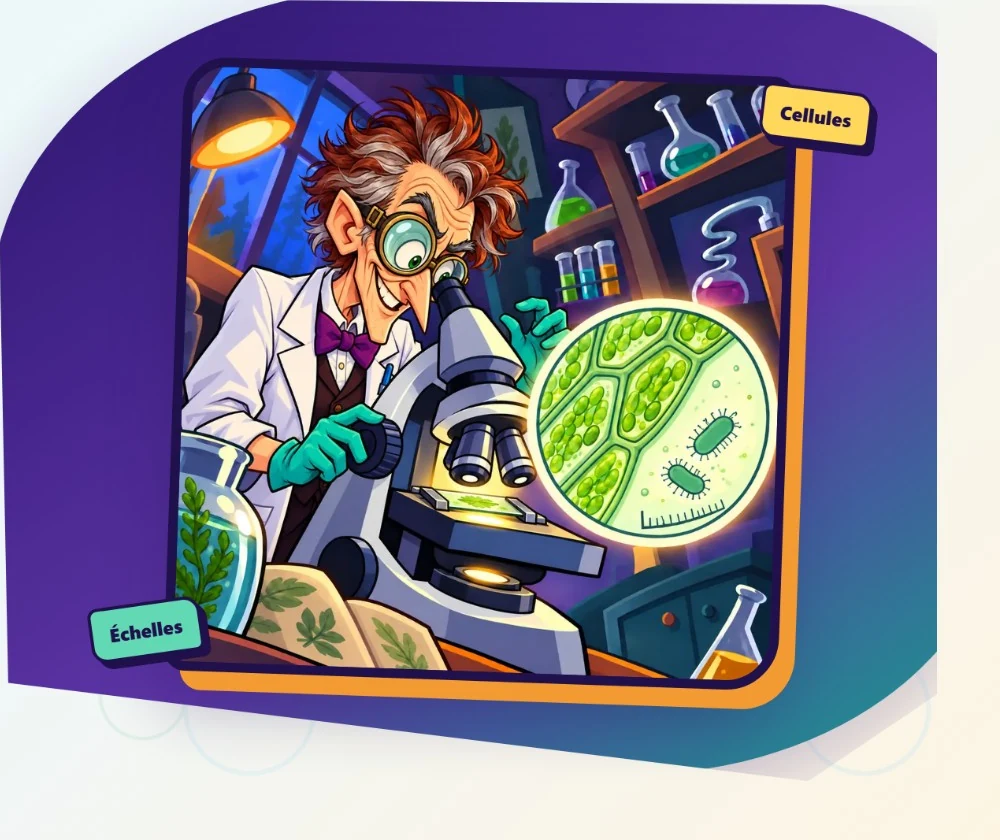
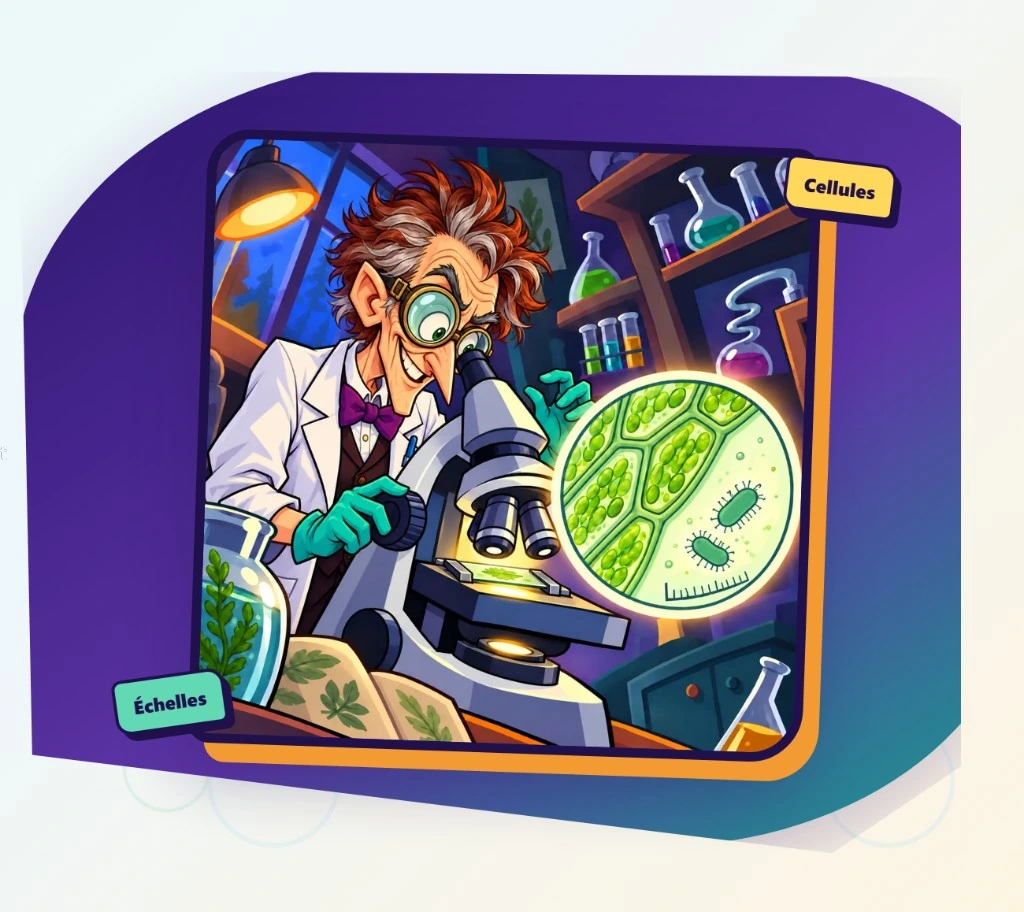
Restaure l'illustration principale et affine la mise en page d'accueil avec icones agrandies et libelles des parcours clarifies.

diff --git a/styles.css b/styles.css
@@ -3,35 +3,35 @@
 .hero.active{flex-direction:column}
 .home-shell{width:100%;display:flex;flex-direction:column;gap:6px;flex:1;min-height:0}
 .home-body{display:grid;grid-template-columns:minmax(0,1.05fr) minmax(0,.88fr);gap:clamp(20px,3.2vw,36px);align-items:stretch;flex:1;min-height:0}
-.home-main{display:flex;flex-direction:column;gap:4px;min-height:0;min-width:0;margin-left:clamp(-4px,-0.6vw,-12px)}
+.home-main{display:flex;flex-direction:column;gap:4px;min-height:0;min-width:0;padding-left:clamp(16px,3vw,40px)}
 .home-intro{display:flex;flex-direction:column;align-items:flex-start;gap:0;padding:0;max-width:620px;flex:0 0 auto}
 .home-intro .eyebrow{margin:0 0 6px;font-size:13px;letter-spacing:.13em}
 .home-intro h1{margin:0 0 10px;font-size:clamp(30px,4.8vw,54px);line-height:1.02;letter-spacing:-.04em;white-space:nowrap}
 .home-intro p{margin:0 0 12px;font-size:clamp(15px,1.55vw,19px);line-height:1.5;max-width:580px}
 .home-intro .hero-facts{margin:0;gap:8px}
 .home-intro .hero-facts span{padding:8px 11px;font-size:13px}
-.home-spotlight{margin:0;display:flex;align-items:flex-end;justify-content:flex-start;flex:1;min-height:0;padding:0;background:none;box-shadow:none;border-radius:0;overflow:visible}
-.home-spotlight img{display:block;width:100%;max-width:100%;height:auto;max-height:min(62vh,580px);object-fit:contain;object-position:left bottom;filter:drop-shadow(0 10px 22px #32187316)}
+.home-spotlight{margin:0;display:flex;align-items:center;justify-content:flex-start;flex:1;min-height:0;padding:0;background:none;box-shadow:none;border-radius:0;overflow:visible;transform:translateY(-18px)}
+.home-spotlight img{display:block;width:100%;max-width:100%;height:auto;max-height:min(62vh,580px);object-fit:contain;object-position:left center}
 .path-choices{padding-left:4px}.eyebrow{display:inline-block;color:#147d6b;font-size:13px;font-weight:900;letter-spacing:.13em;text-transform:uppercase}.hero h1,.result h1{margin:14px 0 18px;font-size:clamp(42px,5.6vw,72px);line-height:1.02;letter-spacing:-.045em}.hero h1 em{color:var(--teal);font-style:normal}.hero p{font-size:20px;line-height:1.55;max-width:590px}.primary,.secondary{border:0;border-radius:15px;padding:14px 21px;font:800 16px inherit;cursor:pointer;transition:.18s}.primary{color:white;background:linear-gradient(135deg,#128974,#15aa8b);box-shadow:0 10px 25px #159b7d42}.primary:hover{transform:translateY(-2px)}.primary:disabled{opacity:.45;transform:none;cursor:not-allowed}.secondary{color:var(--deep);background:#e6f1ee}.big{margin-top:15px;padding:17px 24px;font-size:18px}.big span{padding-left:18px}.microcopy{font-size:12px!important;opacity:.62}.hero-visual{position:relative;min-width:430px;height:430px;display:grid;place-items:center}.specimen{position:relative;width:320px;height:230px;border:12px double #21966d;border-radius:43% 36% 42% 35%;background:#d9f6a7;transform:rotate(-7deg);box-shadow:0 25px 50px #11694b32,inset 0 0 0 7px #8cd060}.specimen:before{content:"";position:absolute;inset:22px;border:3px solid #4cb887;border-radius:45%}.specimen .nucleus{position:absolute;z-index:2;width:65px;height:52px;left:120px;top:80px;border-radius:50%;background:#bd8add;border:7px solid #a667c8}.specimen i{position:absolute;width:23px;height:12px;border-radius:50%;background:#1c9c46}.specimen i:nth-of-type(1){left:30px;top:35px}.specimen i:nth-of-type(2){left:80px;top:25px}.specimen i:nth-of-type(3){right:40px;top:42px}.specimen i:nth-of-type(4){right:28px;bottom:42px}.specimen i:nth-of-type(5){left:55px;bottom:38px}.specimen i:nth-of-type(6){left:145px;bottom:25px}.specimen i:nth-of-type(7){right:88px;bottom:55px}.scope{position:absolute;left:10px;bottom:32px;z-index:3;transform:rotate(-15deg)}.scope span{display:block;background:var(--deep);border-radius:15px}.scope span:nth-child(1){width:50px;height:150px;margin-left:37px}.scope span:nth-child(2){width:95px;height:48px;transform:skewX(-24deg)}.scope span:nth-child(3){width:130px;height:18px;margin-top:25px}.floating-tag{position:absolute;padding:11px 15px;background:white;border-radius:12px;font-weight:900;box-shadow:var(--shadow)}.tag-a{right:20px;top:50px;color:var(--teal);transform:rotate(7deg)}.tag-b{left:45px;top:65px;color:var(--orange);transform:rotate(-8deg)}
 .mission{align-items:center;justify-content:center;padding:28px 0}.mission-card,.result-card{width:min(920px,100%);padding:30px 34px;border:1px solid #ffffffcc;border-radius:28px;background:#ffffffdc;box-shadow:var(--shadow);backdrop-filter:blur(12px)}.mission-card{position:relative}.mission-head{display:flex;gap:12px;align-items:center;margin-bottom:22px}
 .mission-titles{flex:1;min-width:0}
 .nav-arrow{flex:0 0 34px;width:34px;height:34px;border:0;border-radius:10px;background:var(--teal);color:#fff;font:800 22px/1 inherit;cursor:pointer;box-shadow:2px 2px 0 #0e5c52}
 .nav-arrow:hover:not(:disabled){transform:translateY(-1px)}
 .nav-arrow:disabled{opacity:.28;cursor:default;box-shadow:none;background:#9dbbb6}.mission-num{display:grid;place-items:center;flex:0 0 48px;height:48px;border-radius:15px;color:white;background:var(--teal);font-weight:900}.mission-head h1{margin:1px 0 6px;font-size:28px}.mission-head p{margin:0;color:#58707a}.question{font-size:30px;font-weight:850;line-height:1.4;margin:15px 0}.options{display:grid;grid-template-columns:repeat(2,minmax(0,1fr));gap:12px}.option{min-height:64px;padding:14px 16px;text-align:left;border:2px solid #dceae7;border-radius:15px;background:white;color:var(--ink);font:750 15px inherit;cursor:pointer;transition:.17s}.option:hover{border-color:#75cbb9;background:#f2fcf8}.option.selected{border-color:var(--teal);background:var(--mint)}.option.good{border-color:#38a873;background:#e5faef}.option.bad{border-color:var(--red);background:#fff0f0}.feedback{margin-top:12px;padding:12px 15px;border-radius:14px;background:#eef6f4;line-height:1.35;font-size:24px}.feedback:empty,.actions:has(.hidden){display:none}.actions{display:flex;justify-content:flex-end;gap:10px;margin-top:16px}.mission-card>.feedback{position:absolute;left:14px;right:14px;top:var(--feedback-top,88px);z-index:8;margin:0;max-height:min(34vh,220px);overflow:auto;box-shadow:0 10px 28px rgba(21,49,61,.2)}.mission-card>.actions{position:absolute;right:14px;bottom:14px;z-index:9;margin:0}.image-panel{position:relative;margin:14px 0 20px;padding:12px;border-radius:18px;background:#ecf5f2;text-align:center}.image-panel img{display:block;max-width:100%;max-height:300px;margin:auto;border-radius:11px}.compare{display:grid;grid-template-columns:repeat(3,1fr);gap:12px}.compare .option{text-align:center}.compare .emoji{display:block;font-size:34px;margin-bottom:6px}.formula{display:grid;grid-template-columns:1fr auto 1fr auto 1fr;align-items:center;gap:10px;margin:20px 0;padding:18px;border-radius:18px;background:#f1f8f6}.formula input{width:100%;padding:13px;border:2px solid #c9ded9;border-radius:11px;font:850 18px inherit;text-align:center}.formula span{font-weight:900;color:var(--teal)}.estimate-line{height:34px;display:flex;margin:24px 0 8px;border-left:4px solid var(--deep);border-right:4px solid var(--deep)}.estimate-line i{flex:1;border-bottom:5px solid var(--orange);position:relative}.estimate-line i:not(:last-child):after{content:"";position:absolute;right:-2px;bottom:-8px;width:4px;height:12px;background:var(--deep)}.estimate-line i:last-child{flex:.625}.unit-sort{display:flex;align-items:center;gap:10px;flex-wrap:wrap}.chip{padding:13px 16px;border:2px solid #cfe4df;border-radius:14px;background:white;font-weight:850;cursor:pointer}.chip.picked{opacity:.35}.answer-slots{display:flex;gap:9px;min-height:52px;padding:7px;border:2px dashed #a9cfc6;border-radius:14px;margin:12px 0}.answer-slots .chip{padding:9px 13px}.result{align-items:center;justify-content:center;text-align:center}.result-card{max-width:720px}.badge{display:grid;place-items:center;width:80px;height:80px;margin:-65px auto 20px;border-radius:24px;background:#dff7e9;font-size:42px;box-shadow:0 10px 25px #15313d25}.result h1{font-size:44px}.final-score strong{display:block;color:var(--teal);font-size:65px;line-height:1}.final-score span{color:#6a7c83;font-weight:700}.result-actions{display:flex;gap:10px;justify-content:center;margin-top:24px}.recap{text-align:left;margin-top:22px;padding:20px;border-radius:16px;background:#f0f8f5}.recap h2{margin-top:0}.toast{position:fixed;left:50%;bottom:24px;transform:translate(-50%,30px);padding:12px 18px;border-radius:12px;color:white;background:var(--deep);opacity:0;pointer-events:none;transition:.25s}.toast.show{opacity:1;transform:translate(-50%,0)}
-@media(max-width:760px){.app{padding:12px 16px}.topbar{height:auto;min-height:62px;align-items:flex-start}.hud{flex-wrap:wrap;justify-content:flex-end}.progress{order:3;width:100%}.hero{padding:8px 0 16px}.home-body{grid-template-columns:1fr;gap:16px}.home-intro h1{white-space:normal;font-size:clamp(28px,8vw,40px)}.home-intro p{font-size:15px}.home-spotlight img{max-height:min(44vh,340px)}.path-choices{padding-left:0}.path-choices{grid-template-rows:none;grid-template-columns:1fr;grid-auto-rows:auto;height:auto;gap:10px}.path-item{flex-direction:row}.path-hit{width:clamp(100px,28vw,140px)}.path-caption strong{font-size:15px}.path-sub{font-size:11px}.hero h1{font-size:46px}.mission-card{padding:22px 18px;border-radius:20px}.options,.compare{grid-template-columns:1fr}.formula{grid-template-columns:1fr;}.formula span{transform:rotate(90deg)}.result-actions{flex-direction:column}.brand{font-size:0}.brand-icon{font-size:19px}.image-panel img{max-height:230px}}
+@media(max-width:760px){.app{padding:12px 16px}.topbar{height:auto;min-height:62px;align-items:flex-start}.hud{flex-wrap:wrap;justify-content:flex-end}.progress{order:3;width:100%}.hero{padding:8px 0 16px}.home-body{grid-template-columns:1fr;gap:16px}.home-intro h1{white-space:normal;font-size:clamp(28px,8vw,40px)}.home-intro p{font-size:15px}.home-spotlight img{max-height:min(44vh,340px)}.path-choices{padding-left:0}.path-choices{grid-template-rows:none;grid-template-columns:1fr;grid-auto-rows:auto;height:auto;gap:10px}.path-item{flex-direction:row}.path-hit{width:clamp(160px,45vw,224px)}.path-caption strong{font-size:30px}.path-sub{font-size:22px}.hero h1{font-size:46px}.mission-card{padding:22px 18px;border-radius:20px}.options,.compare{grid-template-columns:1fr}.formula{grid-template-columns:1fr;}.formula span{transform:rotate(90deg)}.result-actions{flex-direction:column}.brand{font-size:0}.brand-icon{font-size:19px}.image-panel img{max-height:230px}}
 .formula input[readonly]:not(#calcAnswer){color:#31525d;background:#e3efec;border-color:#d1e2de}
 .scale-lab{margin:14px 0 22px;padding:12px;border-radius:18px;background:#edf7f4}.cell-stage{position:relative;overflow:hidden;aspect-ratio:1200/645;border-radius:13px;background:#fff;touch-action:none;user-select:none}.cell-stage img{display:block;width:100%;height:100%;object-fit:contain;pointer-events:none}.scale-tape{--segment:75px;position:absolute;z-index:3;height:36px;min-width:var(--segment);border:3px solid #087aa0;border-radius:7px 11px 11px 7px;background:repeating-linear-gradient(90deg,#8cddf2 0 calc(var(--segment) - 3px),#087aa0 calc(var(--segment) - 3px) var(--segment));box-shadow:0 7px 15px #123f4f38;cursor:grab;touch-action:none}.scale-tape:active{cursor:grabbing}.scale-tape:before{content:"";position:absolute;inset:5px 0 5px 0;background:repeating-linear-gradient(90deg,transparent 0 calc(var(--segment)/2 - 1px),#087aa0 calc(var(--segment)/2 - 1px) calc(var(--segment)/2 + 1px),transparent calc(var(--segment)/2 + 1px) var(--segment));opacity:.65}.tape-value{position:absolute;z-index:2;left:8px;top:-27px;padding:3px 7px;border-radius:7px;color:#087aa0;background:#fff;font-size:12px;font-weight:900;white-space:nowrap}.tape-handle{position:absolute;z-index:4;right:-12px;top:4px;width:21px;height:21px;border:4px solid white;border-radius:50%;background:var(--orange);box-shadow:0 2px 7px #15313d55;cursor:ew-resize}.scale-help{display:flex;align-items:center;justify-content:space-between;gap:12px;padding:11px 5px 0;color:#47656f;font-size:14px;font-weight:750}.scale-help-tip{flex:1;min-width:0;margin:0;padding:10px 14px;border:3px solid #ff9f43;border-radius:14px;background:linear-gradient(180deg,#fff9ec,#fff3d6);color:#0d4f63;font-size:19px;font-weight:900;line-height:1.35;box-shadow:3px 3px 0 #ff9f4355}.scale-help-ico{display:inline-block;margin-right:6px;font-size:1.1em;vertical-align:-2px}.mini{padding:8px 11px;font-size:13px;white-space:nowrap}
 @media(max-width:760px){.scale-help{align-items:flex-start;flex-direction:column}.scale-tape{height:30px}.tape-handle{top:1px}}
 .hero{position:relative}
 .path-choices{display:grid;grid-template-rows:repeat(3,minmax(0,1fr));gap:8px;margin:0;min-height:0;height:100%}
 .path-item{display:flex;align-items:center;gap:12px;min-height:0}
-.path-hit{flex:0 0 auto;width:clamp(118px,min(22vh,28%),200px);aspect-ratio:1;padding:0;border:3px solid #20104c;border-radius:14px;background:#20104c;cursor:pointer;overflow:hidden;box-shadow:4px 5px 0 #f39a32;transition:transform .18s,box-shadow .18s,border-color .18s;font:inherit;color:inherit;line-height:0}
+.path-hit{flex:0 0 auto;width:clamp(190px,min(35vh,44%),320px);aspect-ratio:1.55/1;padding:0;border:3px solid #20104c;border-radius:14px;background:#20104c;cursor:pointer;overflow:hidden;box-shadow:4px 5px 0 #f39a32;transition:transform .18s,box-shadow .18s,border-color .18s;font:inherit;color:inherit;line-height:0}
 .path-hit:hover:not(:disabled){transform:translateY(-2px);border-color:var(--teal);box-shadow:5px 6px 0 #f39a32,0 12px 24px #26145820}
 .path-hit:focus-visible{outline:3px solid var(--teal);outline-offset:2px}
 .path-hit img{display:block;width:100%;height:100%;object-fit:cover;object-position:center}
-.path-caption{margin:0;flex:1;min-width:0;text-align:left;font:750 13px/1.35 inherit;color:var(--deep)}
-.path-caption strong{display:block;font:800 16px/1.2 inherit;color:var(--deep)}
-.path-sub{display:block;margin-top:4px;font:700 12px/1.35 inherit;color:#58707a}
+.path-caption{margin:0;flex:1;min-width:0;text-align:left;font:750 26px/1.3 inherit;color:var(--deep)}
+.path-caption strong{display:block;font:800 32px/1.15 inherit;color:var(--deep)}
+.path-sub{display:block;margin-top:6px;font:700 24px/1.3 inherit;color:#58707a}
 .path-item--soon{opacity:.84}
 .path-item--soon .path-hit{cursor:pointer}
 .path-soon{color:#a85b09;letter-spacing:.03em;text-transform:uppercase;font-size:9px!important}
@@ -94,14 +94,14 @@ html.handheld .home-intro p{margin-bottom:8px;font-size:13px;line-height:1.35}
 html.handheld .home-intro .hero-facts span{padding:5px 8px;font-size:11px}
 html.handheld .microcopy{margin:2px 0 0}
 html.handheld .home-body{grid-template-columns:minmax(0,1.02fr) minmax(0,.92fr);gap:clamp(14px,2.5vw,24px);align-items:stretch}
-html.handheld .home-spotlight{align-items:flex-end}
+html.handheld .home-spotlight{align-items:center}
 html.handheld .home-spotlight img{max-height:min(48vh,400px)}
 html.handheld .path-choices{padding-left:6px}
 html.handheld .path-choices{gap:6px}
 html.handheld .path-item{gap:10px}
-html.handheld .path-hit{width:clamp(96px,min(20vh,32%),168px);border-radius:12px;border-width:2px;box-shadow:3px 4px 0 #f39a32}
-html.handheld .path-caption strong{font-size:14px}
-html.handheld .path-sub{font-size:11px}
+html.handheld .path-hit{width:clamp(154px,min(32vh,50%),269px);border-radius:12px;border-width:2px;box-shadow:3px 4px 0 #f39a32}
+html.handheld .path-caption strong{font-size:28px}
+html.handheld .path-sub{font-size:22px}
 html.handheld .mission{padding:0;align-items:stretch}
 html.handheld .mission-card,html.handheld .result-card{width:100%;height:100%;max-width:none;padding:10px 12px 14px;border-radius:18px;display:flex;flex-direction:column;min-height:0;overflow:hidden}
 html.handheld .mission-head{gap:10px;align-items:center;margin-bottom:6px;flex:0 0 auto}
@@ -158,9 +158,9 @@ html.handheld .formula span{white-space:nowrap}
   html.handheld .microcopy,html.handheld .home-intro p,html.handheld .home-intro .hero-facts{display:none}
   html.handheld .home-intro h1{font-size:20px;margin-bottom:4px}
   html.handheld .home-spotlight img{max-height:min(44vh,230px)}
-  html.handheld .path-hit{width:clamp(80px,18vh,120px)}
-  html.handheld .path-caption strong{font-size:12px}
-  html.handheld .path-sub{font-size:9px}
+  html.handheld .path-hit{width:clamp(128px,29vh,192px)}
+  html.handheld .path-caption strong{font-size:22px}
+  html.handheld .path-sub{font-size:16px}
   html.handheld .mission-head h1{font-size:16px}
   html.handheld .question{font-size:20px}
   html.handheld .option{min-height:36px;padding:6px 8px;font-size:12px}
@@ -233,9 +233,9 @@ html.fit .home-spotlight img{max-height:min(64vh,620px)}
 html.fit .path-choices{padding-left:8px}
 html.fit .path-choices{gap:7px}
 html.fit .path-item{gap:12px}
-html.fit .path-hit{width:clamp(110px,min(21vh,30%),190px);border-radius:14px}
-html.fit .path-caption strong{font-size:15px}
-html.fit .path-sub{font-size:12px}
+html.fit .path-hit{width:clamp(176px,min(34vh,48%),304px);border-radius:14px}
+html.fit .path-caption strong{font-size:30px}
+html.fit .path-sub{font-size:22px}
 html.fit .scale-help{padding:6px 2px 0;flex-direction:row;align-items:center}
 html.fit .scale-help-tip{font-size:17px;padding:9px 12px}
 html.fit .mission-quiz{display:flex;flex-direction:column;flex:0 0 auto;min-height:0;overflow:auto;width:min(980px,100%);margin-inline:auto}
@@ -269,9 +269,9 @@ html.fit:not(.handheld) .final-score strong{font-size:52px}
   html.fit:not(.handheld) .microcopy,html.fit:not(.handheld) .home-intro p,html.fit:not(.handheld) .home-intro .hero-facts{display:none}
   html.fit:not(.handheld) .home-intro h1{font-size:24px;margin-bottom:6px}
   html.fit:not(.handheld) .home-spotlight img{max-height:min(58vh,460px)}
-  html.fit:not(.handheld) .path-hit{width:clamp(96px,18vh,150px)}
-  html.fit:not(.handheld) .path-caption strong{font-size:13px}
-  html.fit:not(.handheld) .path-sub{font-size:10px}
+  html.fit:not(.handheld) .path-hit{width:clamp(154px,29vh,240px)}
+  html.fit:not(.handheld) .path-caption strong{font-size:26px}
+  html.fit:not(.handheld) .path-sub{font-size:20px}
 }
 
 .yt-dock{

diff --git a/index.html b/index.html
@@ -18,7 +18,7 @@
       }
     })();
   </script>
-  <link rel="stylesheet" href="styles.css?v=38">
+  <link rel="stylesheet" href="styles.css?v=43">
 </head>
 <body>
   <div class="bg-cells" aria-hidden="true"></div>
@@ -82,7 +82,7 @@
               <button class="path-hit" id="pathStructures" type="button" aria-labelledby="pathStructuresCap">
                 <img src="illustrations/parcours-structures-cellulaires.jpg" alt="">
               </button>
-              <p class="path-caption" id="pathStructuresCap"><strong>Structures cellulaires</strong><span class="path-sub">Réviser les missions 1 à 4</span></p>
+              <p class="path-caption" id="pathStructuresCap"><strong>Structures cellulaires</strong><span class="path-sub">Réviser les structures cellulaires :<br>missions 1 à 4</span></p>
             </div>
             <div class="path-item path-item--soon">
               <button class="path-hit" id="pathAideEchelle" type="button" aria-labelledby="pathAideEchelleCap" aria-disabled="true">
@@ -94,7 +94,7 @@
               <button class="path-hit" id="pathMesure" type="button" aria-labelledby="pathMesureCap">
                 <img src="illustrations/parcours-mesure-cellule.jpg" alt="">
               </button>
-              <p class="path-caption" id="pathMesureCap"><strong>Taille réelle d’une cellule</strong><span class="path-sub">Échelle et calcul · missions 5 à 14</span></p>
+              <p class="path-caption" id="pathMesureCap"><strong>Taille réelle d’une cellule</strong><span class="path-sub">Échelle et calcul · :<br>missions 5 à 14</span></p>
             </div>
           </nav>
         </div>
